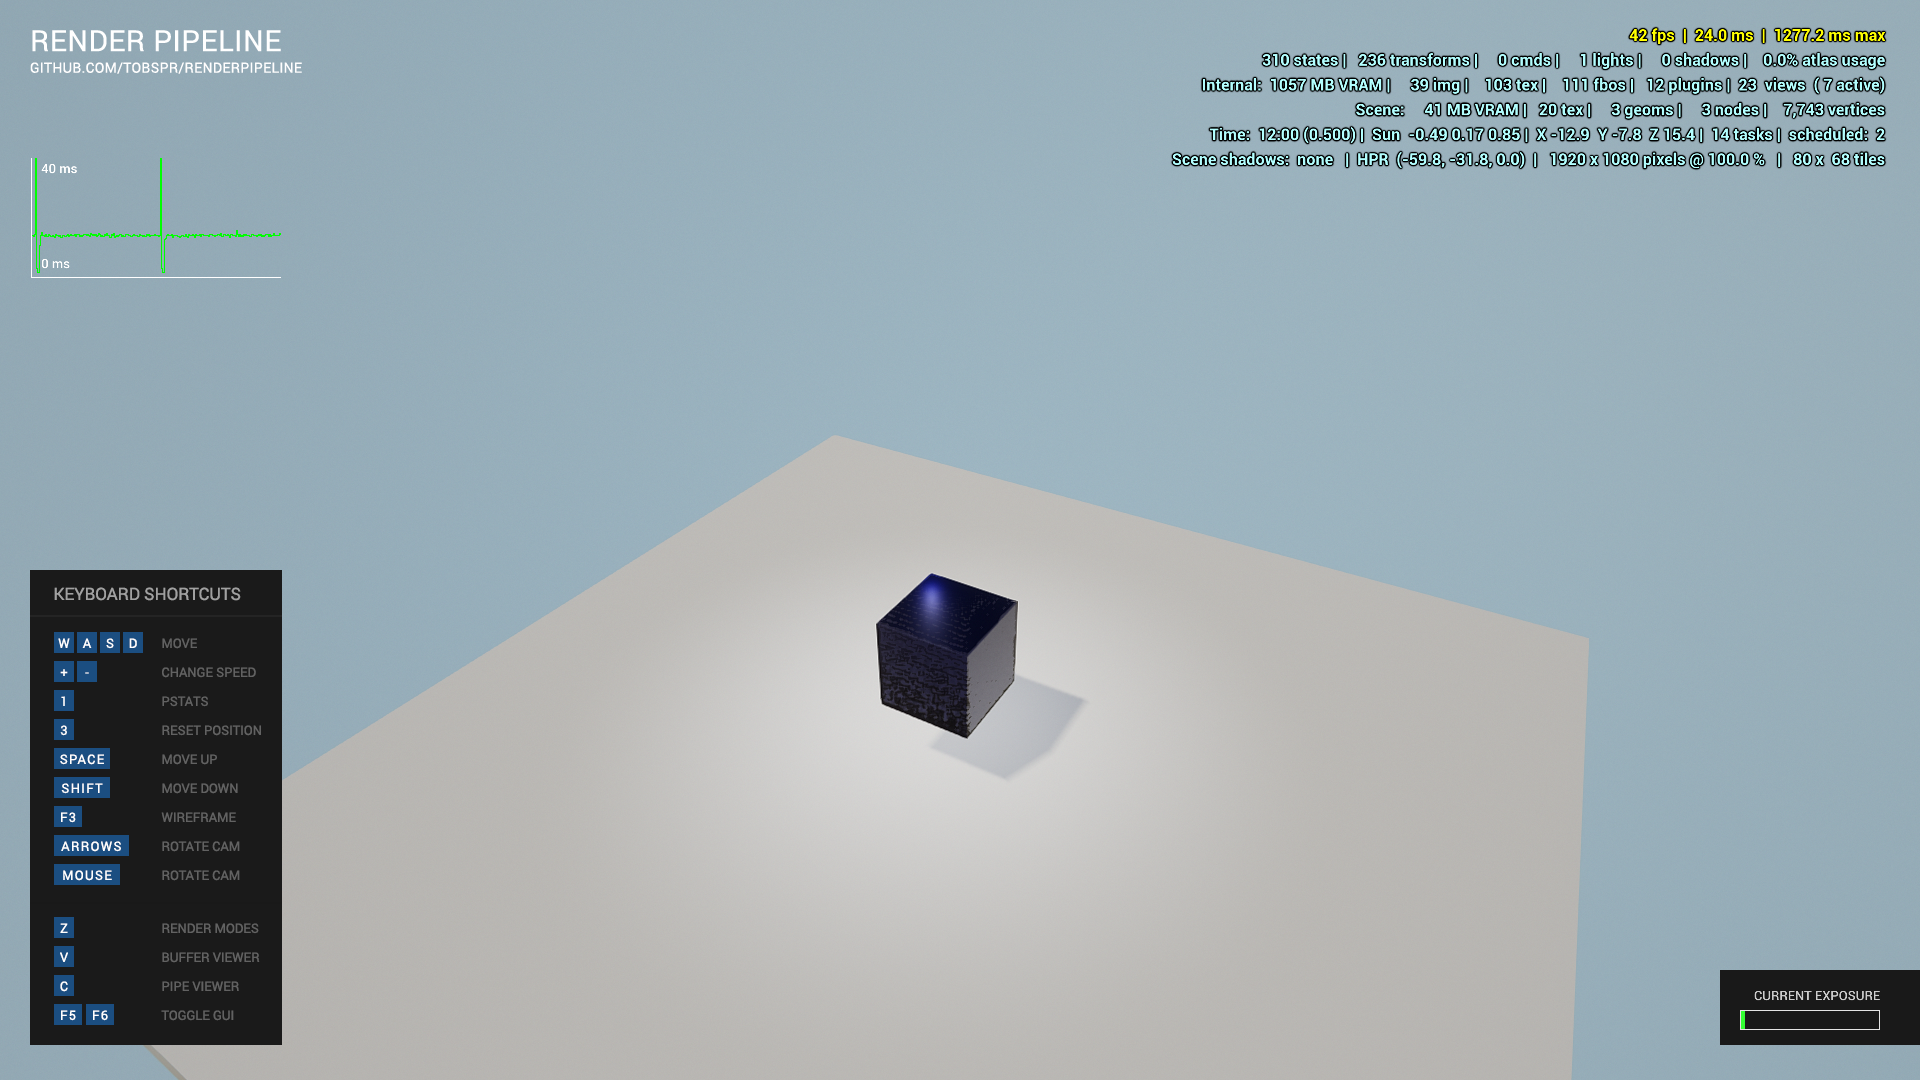
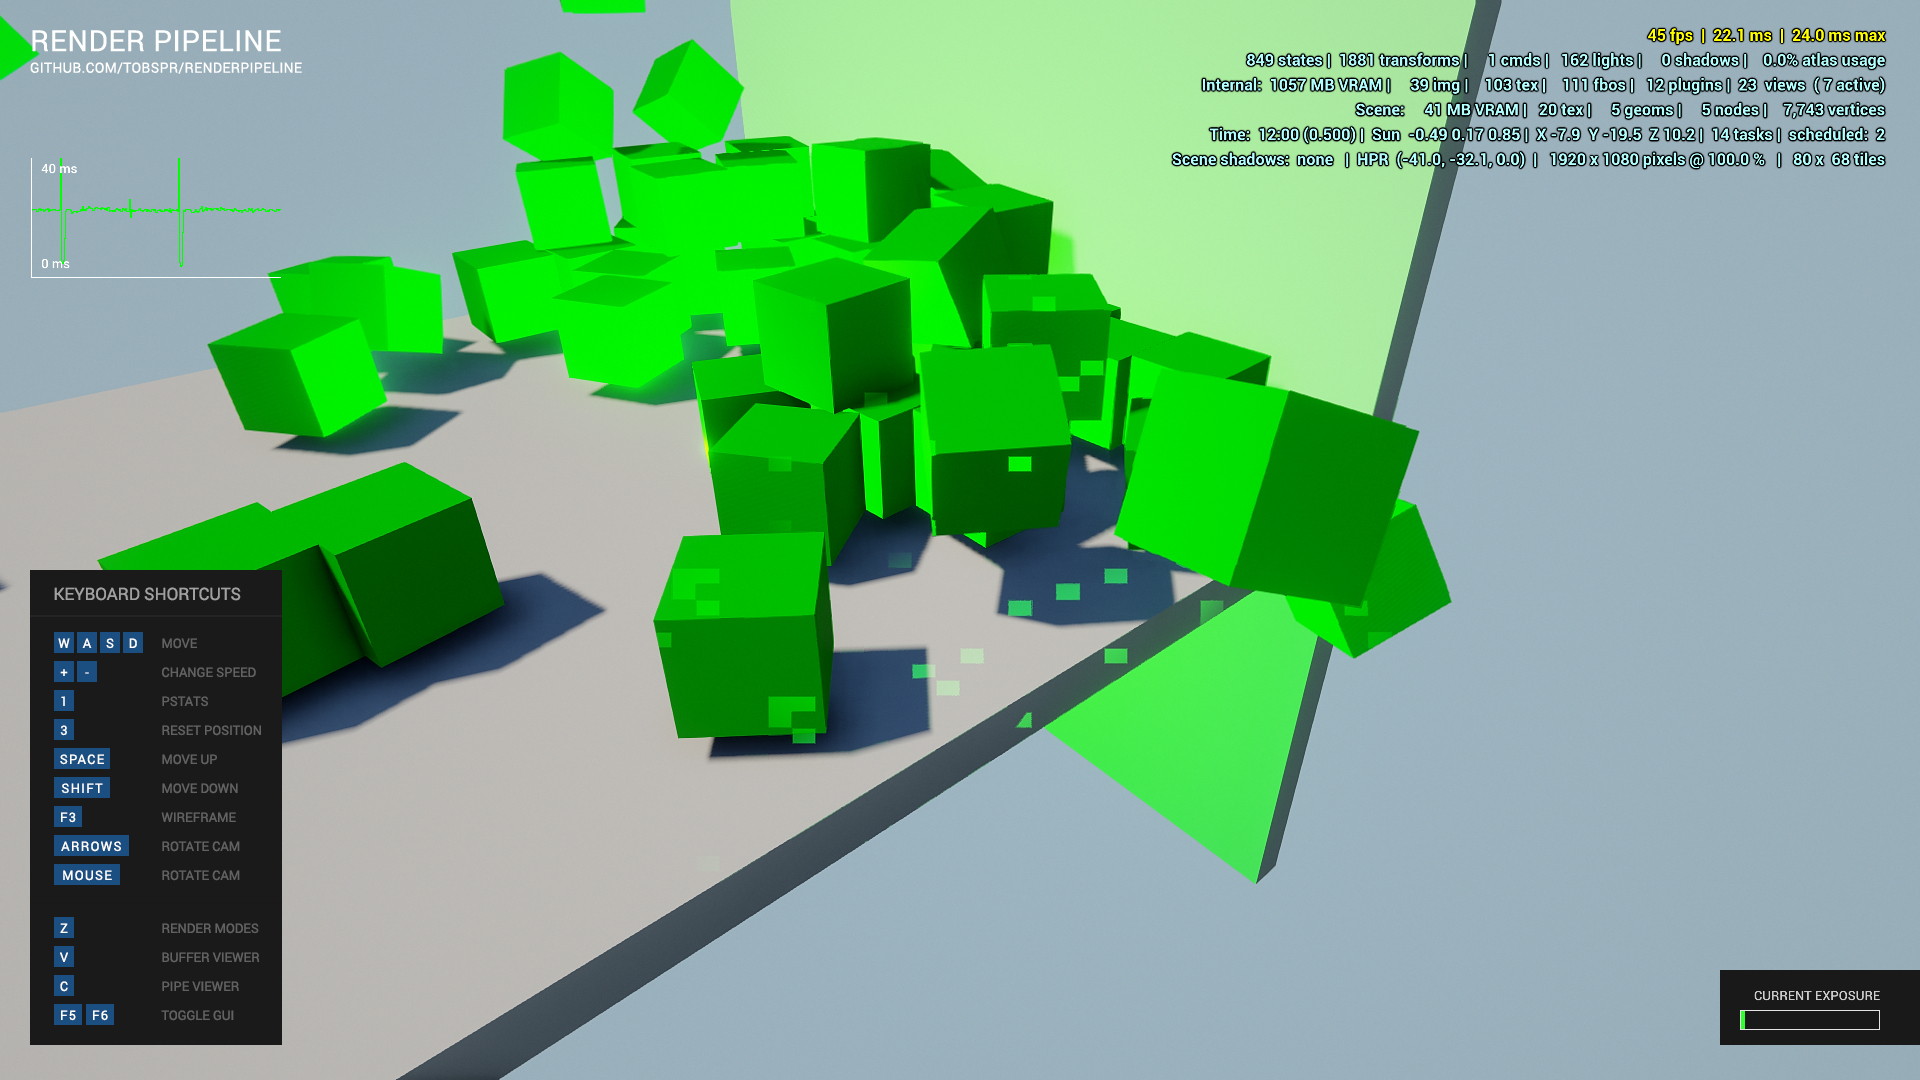
GameObject easier to use

diff --git a/src/GameObjects/GameObject.py b/src/GameObjects/GameObject.py
@@ -6,27 +6,35 @@ from pathlib import Path
 
 class GameObject:
     def __init__(self, app, name="undefined", model=None, x=0, y=0, z=0, rx=0, ry=0, rz=0, sx=0, sy=0, sz=0, collisionShape=BulletBoxShape(Vec3(0.5, 0.5, 0.5)), mass=0):
+        # Importent saves
         self.app = app
         self.collisionShape = collisionShape
+        self.name = name
         
+        # Creating the object
         node = BulletRigidBodyNode(name)
         node.setMass(mass)
         node.addShape(collisionShape)
         self.node = self.app.render.attachNewNode(node)
         self.app.world.attachRigidBody(node)
         
+        # Add the object to the object Registry
         self.app.objectRegistry.append(self)
         
+        # Loading the model for the object
         # TODO: Load Model multithreaded
         if model != None:
             self.model = Path("Content") / Path(model)
             modelObj = self.app.loader.loadModel(self.model)
             modelObj.copyTo(self.node)
-            # I'm not really sure what that line is doing. :D
             self.app.render_pipeline.prepare_scene(modelObj)
         else:
             self.model = None
+        
+        # Adding the update to the tasks of the engine
+        self.app.taskMgr.add(self.update, f"{name} update")
     
-    def update(self):
-        pass
+    def update(self, task):
+        print(f"Hello, I'm {self.name}")
+        return task.cont
         

diff --git a/main.py b/main.py
@@ -40,18 +40,4 @@ radioLight.energy = 10000
 radioLight.color = (0, 255, 0)
 app.render_pipeline.add_light(radioLight)
 
-# dynamic.node.setMaterial(Material)
-
-def spawnDynamics():
-    while True:
-        time.sleep(0.5)
-        dynamic = GameObject(app, "dynamic", "radioactive.bam", mass=10, collisionShape=BulletBoxShape(Vec3(1, 1, 1)))
-        dynamic.node.setPos(0, 0, 5)
-
-        dynamic.node.node().setLinearVelocity(Vec3(50, 0, 0))
-
-t = threading.Thread(target=spawnDynamics)
-t.start()
-
-
 app.run()

diff --git a/Wiki/Structure/GameObjects.md b/Wiki/Structure/GameObjects.md
@@ -1,0 +1,12 @@
+Es gibt 2 grosse Arten von Gameobjects.
+- Static GameObjects
+- Dynamic GameObjects
+
+Dabei unterscheiden sich beide darin, das Static GameObjects keinen Code
+besitzen. Dynamic GameObjects schon.
+
+Die Dynamic GameObjects basieren auf dem Panda3d Actor, welches ermöglicht auch
+Animationen einspielen zu lassen.
+
+Alle GameObjects werden in einem Array `objectRegistry` in der Application
+Instanz gespeichert. Von dort aus kann dann auf die Objekte zugegriffen werden.

diff --git a/Wiki/Structure/Application.md b/Wiki/Structure/Application.md
@@ -1,0 +1,5 @@
+Jeglicher Code der Engine wird in der Application Klasse gemacht. Dafür sollte
+ein Child Element davon erstellt werden.
+
+Gegen Richtung eines Releases sollte das alles nicht mehr von nöten sein,
+sondern einfach andere Dateien bearbeitet werden.
